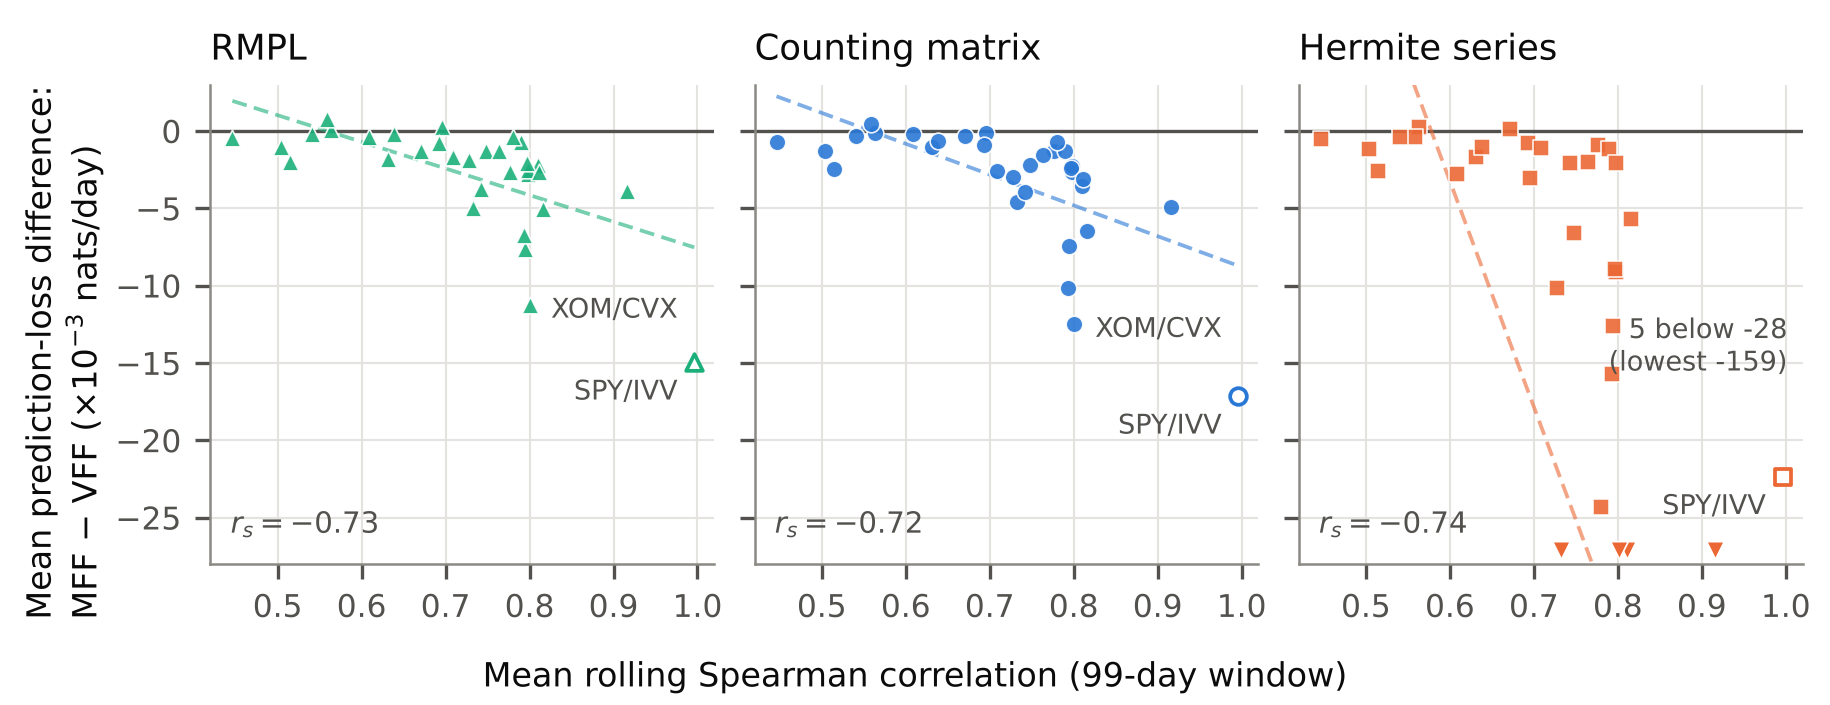
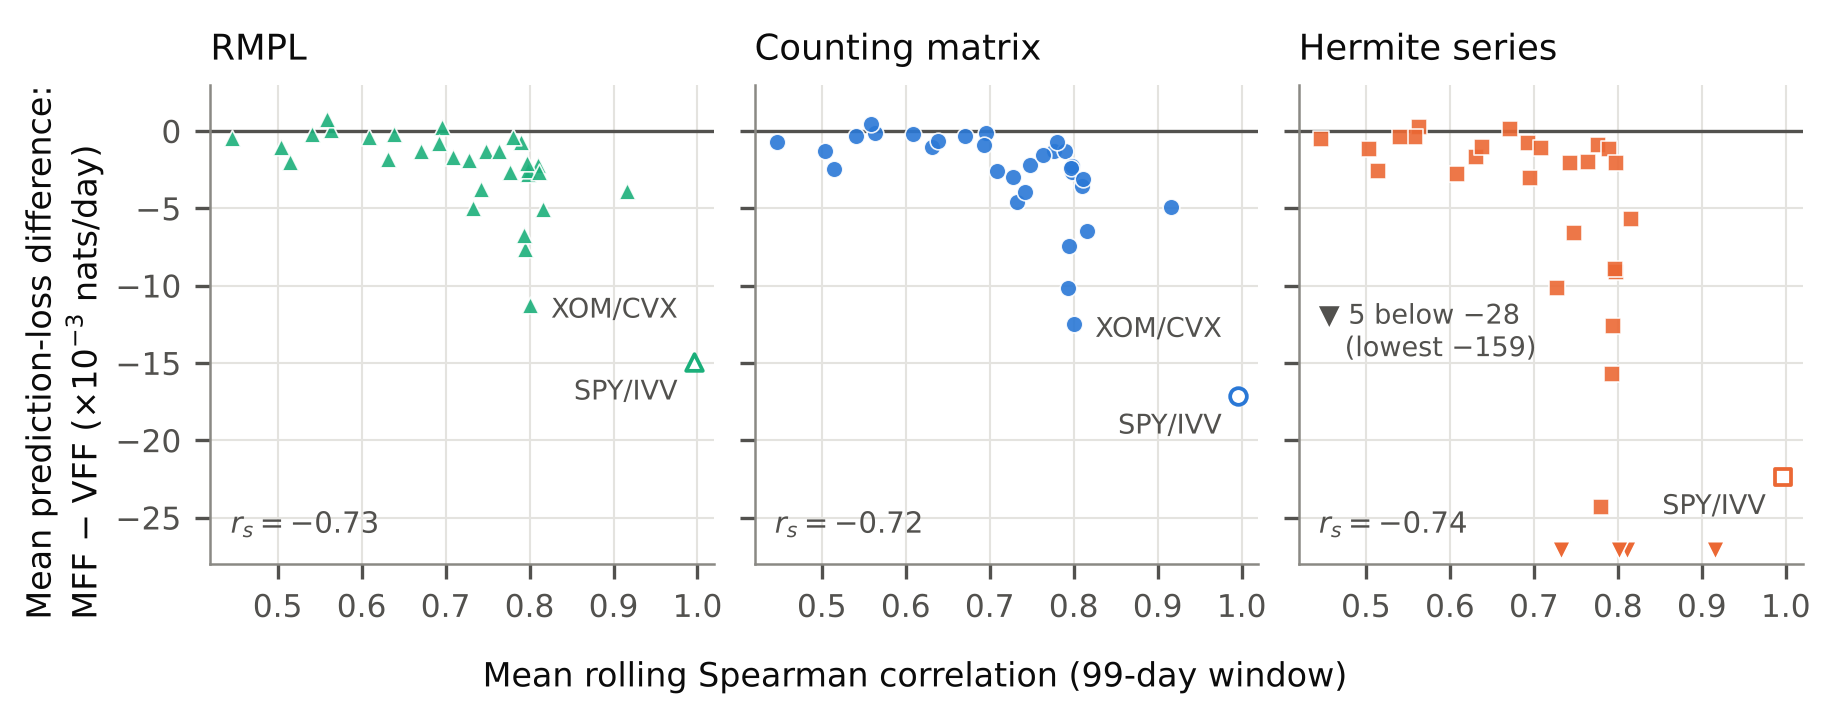
6.6 figures: drop fitted lines, label best displayed fixed setting
Regret: the legend says best displayed setting; an off-scale highlighted bar keeps its label inside the break.
Strength: no fitted lines; the off-scale note sits clear of the points.

Claude-Session: https://claude.ai/code/session_011LH6MHfBJAMQDu7UQqGgRH

diff --git a/experiments/6.6-real-data/plots_loss.py b/experiments/6.6-real-data/plots_loss.py
@@ -125,8 +125,10 @@ def regret_panel(ax, R, m, title):
                     ax.plot([edge * 0.955, edge * 0.975], [y + bw * 0.3, y - bw * 0.3], color="white", lw=1.2, zorder=5)
                     ax.text(edge * 1.01, y, f"{v:.1f}", ha="left" if side > 0 else "right", va="center", fontsize=5.4,
                             color=ce.MUTED, clip_on=False)
-            if k == best:
+            if k == best and v <= REGRET_XMAX:
                 ax.text(max(v, 0) + 0.12, y, k[5:], ha="left", va="center", fontsize=5.4, color=C_BEST)
+            elif k == best:   # off-scale: the setting goes inside the break
+                ax.text(REGRET_XMAX * 0.94, y, k[5:], ha="right", va="center", fontsize=5.4, color="white", zorder=6)
     ax.axvline(0, color=ce.MUTED, lw=0.8, zorder=4)
     ax.set_xlim(REGRET_XMIN, REGRET_XMAX)
     ax.set_ylim(len(EST) - 0.5, -0.5)
@@ -145,9 +147,9 @@ def plot_final_regret(S):
             regret_panel(ax, R, m, title)
         fig.supxlabel(r"Average regret ($\times10^{-3}$ nats per day per pair)", fontsize=8, y=0.02)
         h = [ce.swatch(facecolor=c, edgecolor=ce.EDGE, lw=0.6) for c in (C_OTHER, C_BEST, C_VFF, C_MFF)]
-        ce.top_legend(fig, h, [r"Fixed $N_{\mathrm{eff}}$ = 99, 199, 399 (top to bottom)", "Fixed, lowest average regret (labelled)",
+        ce.top_legend(fig, h, [r"Fixed $N_{\mathrm{eff}}$ = 99, 199, 399 (top to bottom)", "Best displayed fixed setting (labelled)",
                        "VFF", "MFF"], ncol=2, handlelength=1.2, columnspacing=1.5, x=0.55)
-        fig.subplots_adjust(left=0.19, right=0.965, top=0.8, bottom=0.15, wspace=0.12)
+        fig.subplots_adjust(left=0.19, right=0.965, top=0.8, bottom=0.15, wspace=0.16)
         ce.save(fig, image("ch6_practical_final_regret.png"))
 
 
@@ -277,10 +279,7 @@ def strength_points(S):
 
 def strength_panel(ax, g, e):
     s = spearmanr(g.mean_rho, g.mff_minus_vff)
-    b1, b0 = np.polyfit(g.mean_rho, g.mff_minus_vff, 1)
-    xs = np.linspace(g.mean_rho.min(), g.mean_rho.max(), 50)
     ax.axhline(0, color=ce.MUTED, lw=0.8, zorder=1)
-    ax.plot(xs, b0 + b1 * xs, color=ECOL[e], lw=0.9, ls=(0, (4, 2)), alpha=0.6, zorder=2)
     ax.text(0.04, 0.05, rf"$r_s = {s.correlation:.2f}$", transform=ax.transAxes, fontsize=7, color=ce.MUTED, ha="left", va="bottom")
     below = g[g.mff_minus_vff < STRENGTH_YMIN]   # off the shared axis: an arrow at the bottom edge and a count
     g = g[g.mff_minus_vff >= STRENGTH_YMIN]
@@ -289,8 +288,8 @@ def strength_panel(ax, g, e):
     ax.scatter(sp.mean_rho, sp.mff_minus_vff, s=16, marker=EMK[e], facecolor="white", edgecolor=ECOL[e], lw=0.9, zorder=3)
     if len(below):
         ax.scatter(below.mean_rho, np.full(len(below), STRENGTH_YMIN + 0.9), s=18, marker="v", color=ECOL[e], edgecolor="white", lw=0.4, zorder=3)
-        ax.text(0.97, 0.52, f"{len(below)} below {STRENGTH_YMIN:.0f}\n(lowest {below.mff_minus_vff.min():.0f})", transform=ax.transAxes,
-                fontsize=6.5, color=ce.MUTED, ha="right", va="top")
+        ax.text(0.04, 0.55, f"\u25bc {len(below)} below \u2212{-STRENGTH_YMIN:.0f}\n   (lowest \u2212{-below.mff_minus_vff.min():.0f})", transform=ax.transAxes,
+                fontsize=6.5, color=ce.MUTED, ha="left", va="top")
     for _, r in g[g.pair.isin(PAIR_LABEL)].iterrows():
         spy = r.pair == "SPY_IVV"
         ax.annotate(PAIR_LABEL[r.pair], (r.mean_rho, r.mff_minus_vff), xytext=(-4, -4) if spy else (5, -3), textcoords="offset points",
